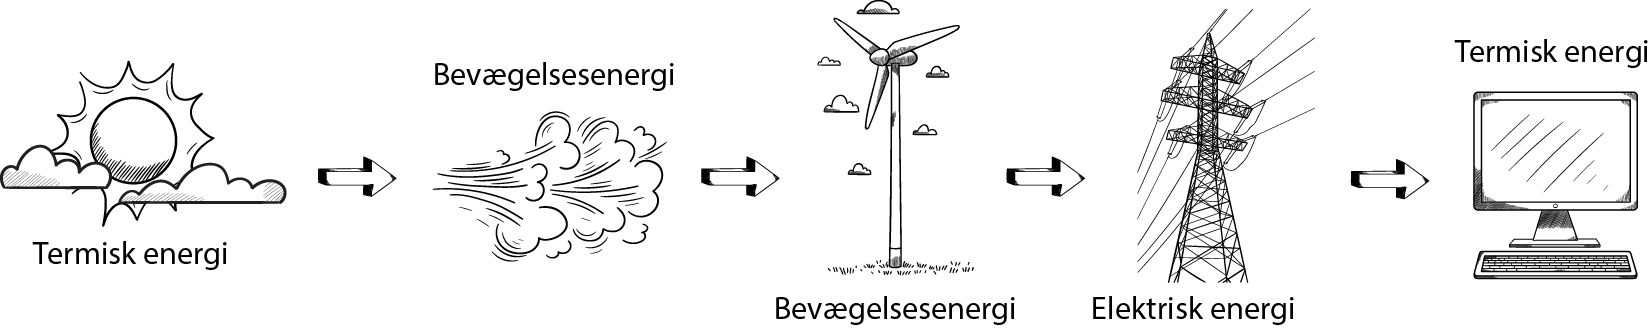
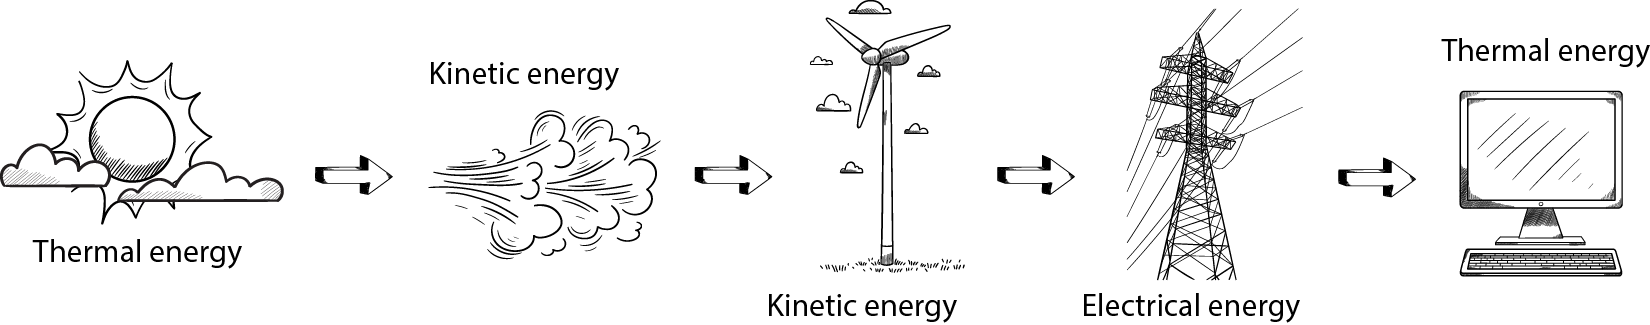
Added new cover

diff --git a/TODO.md b/TODO.md
@@ -6,7 +6,7 @@ https://unsplash.com/photos/a-close-up-view-of-a-patch-of-grass-cn8bE9Tvsac
 - Remove Tweet this book
 
 - Clarify intentions - better introduction! 
-- Explain twin transition (obs beskrevet senere i kapitlet), digital sustainability, sustainable digital in the intro
+- Explain twin transition (obs beskrevet senere i kapitlet), digital sustainability, digital development, sustainable digital in the intro
 - Add image to chapter 0 from the Illustrator file
 - Digital transformation vs digital transition
 - Note on, that some references are not in english, they are not linked, might be replaced. Until than, translate